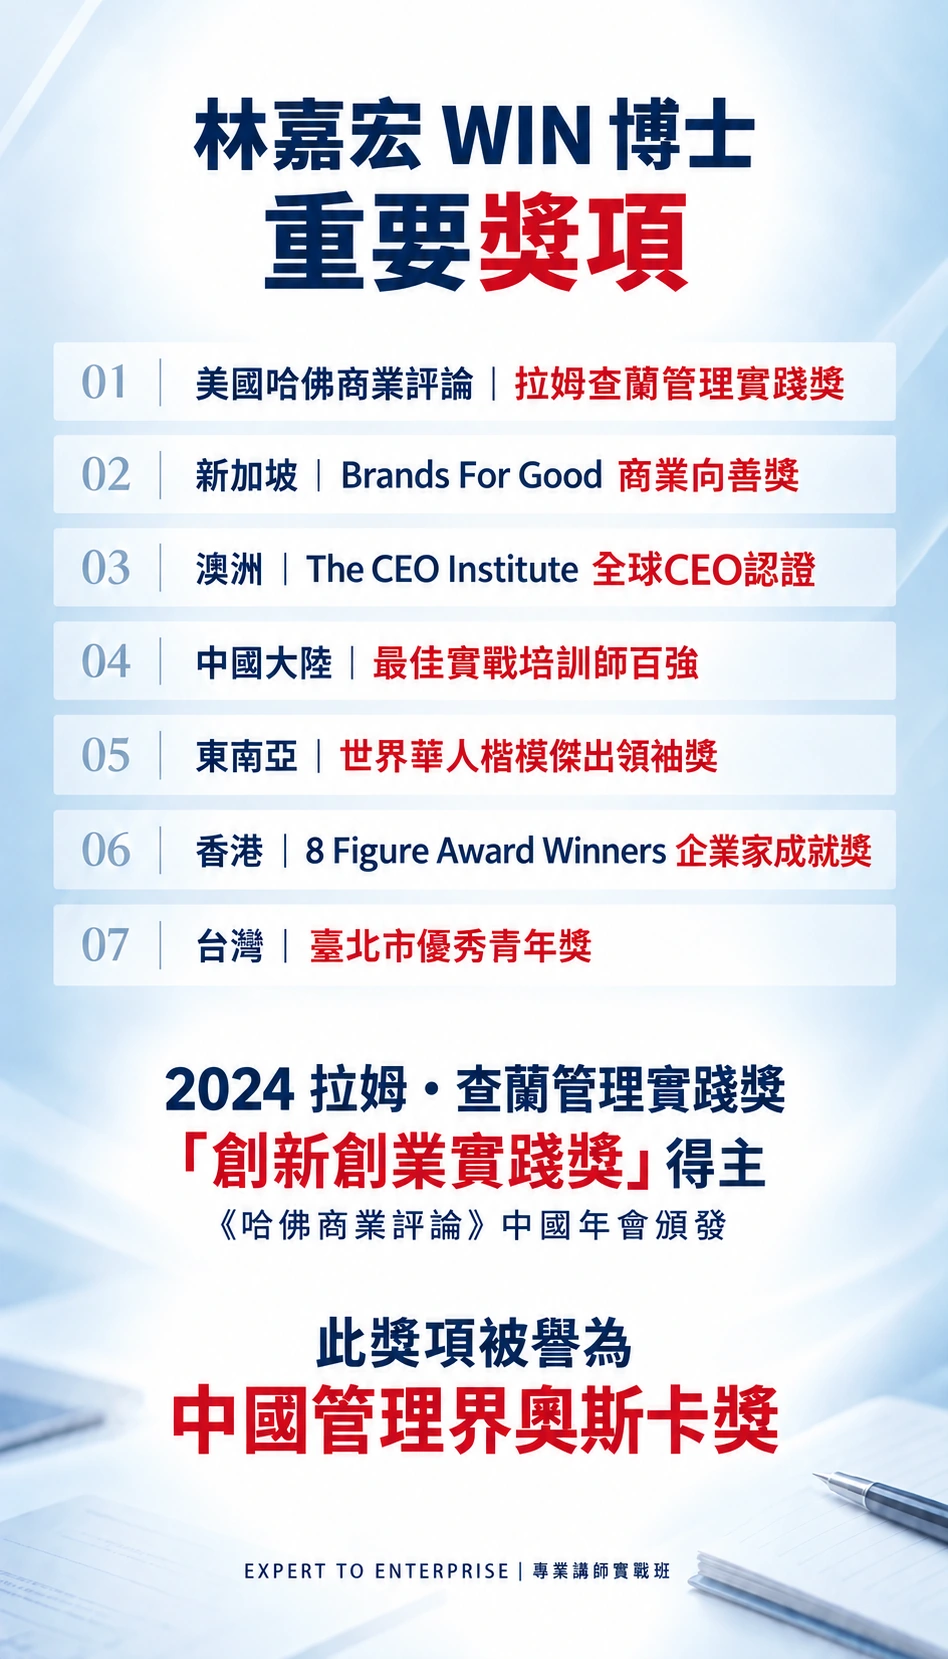
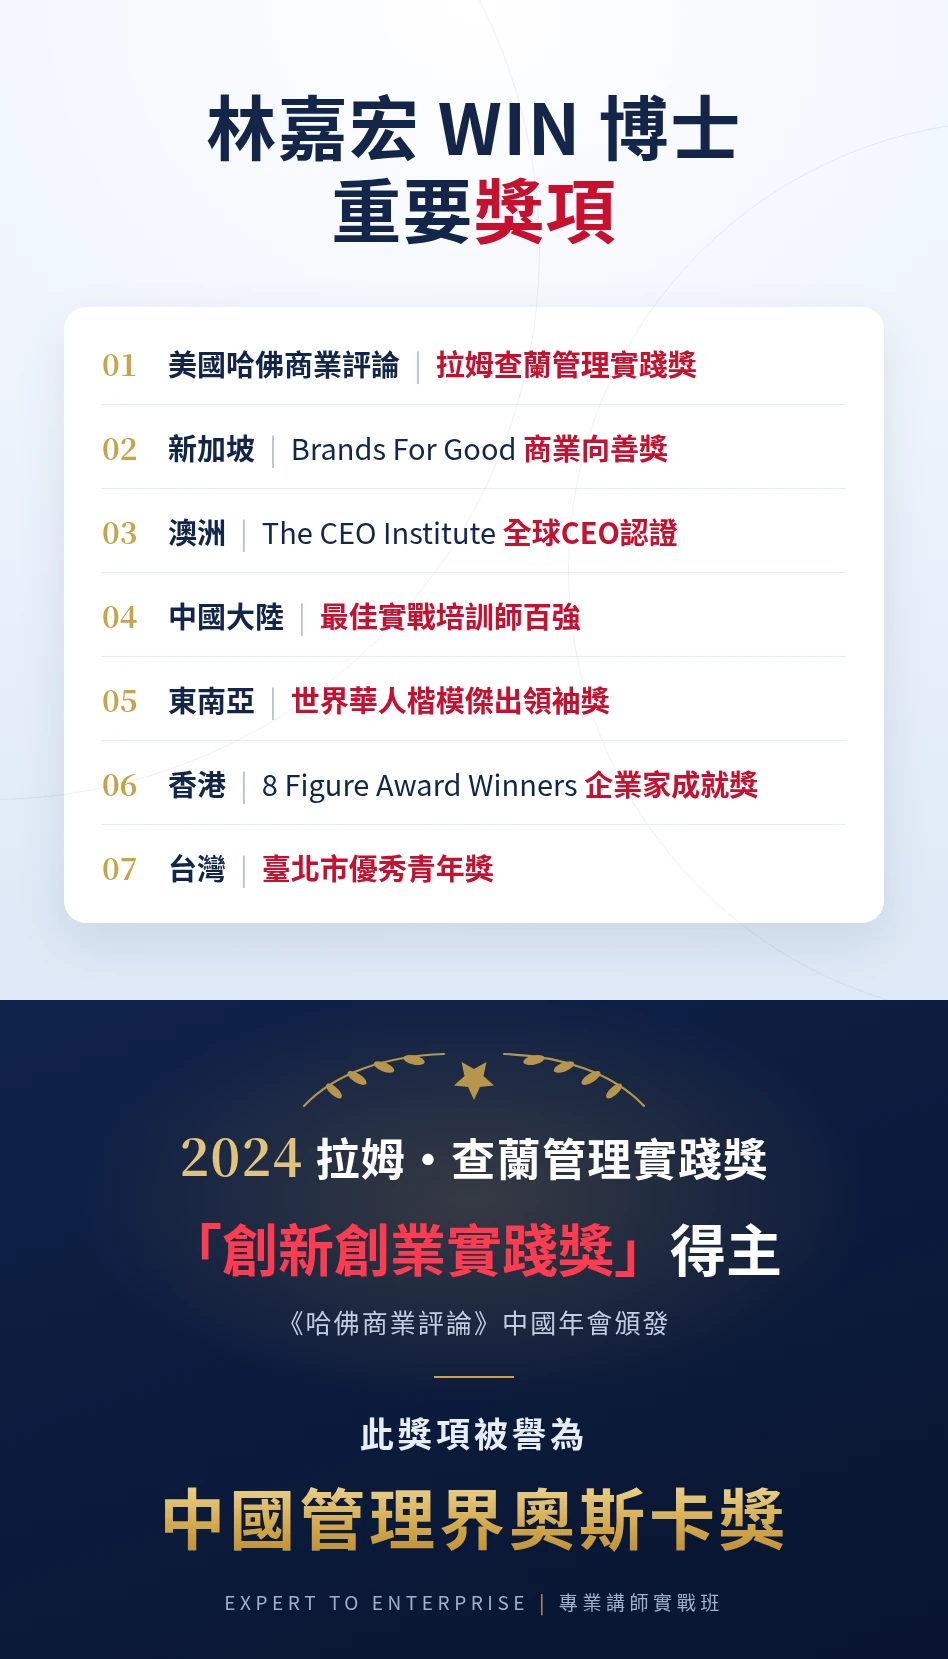
Replace course hero, award, footer art, and registration styles.
Swap the four files from fix1021 so the live course page picks up the new images and navy registration form.

diff --git a/vercel-win/app/globals.css b/vercel-win/app/globals.css
@@ -36,15 +36,15 @@ section.precourse-info{padding:80px 8%;text-align:center;background:radial-gradi
 .precourse-cta:focus-visible{outline:3px solid #071e41;outline-offset:5px}
 @media(max-width:600px){section.precourse-info{padding:52px 24px}.precourse-kicker{letter-spacing:1px}.precourse-info h2{letter-spacing:-.5px}.precourse-break{display:none}.precourse-lead{margin:22px auto 28px}.precourse-details{padding:4px 20px;border-radius:18px}.precourse-details>div{grid-template-columns:1fr 1.35fr;gap:12px;padding:22px 0}.precourse-cta{gap:12px;padding:17px 15px}.precourse-price{margin-top:24px}}
 
-/* Session-card enrollment form, matching the Dreamension registration structure. */
-.application.registration{padding:72px 7%;background:linear-gradient(180deg,#faf8f4,#f4f0f7)}
-.registration .form-shell{border:1px solid #dfd6c8;border-radius:32px;padding:48px;background:#fff;box-shadow:0 18px 60px #26314c0f}
-.registration .form-heading{text-align:center;margin-bottom:30px}.registration .form-heading h2{font-size:clamp(30px,4vw,44px);line-height:1.35;margin:12px 0}.registration .form-heading h2 span{color:#736386}.registration .form-heading>p:last-child{font-size:17px;color:#515568;line-height:1.7}
-.registration .course-summary{display:grid;gap:12px;margin:28px 0}.registration .course-summary p{display:flex;gap:6px;align-items:baseline;border:1px solid #eee7dd;border-radius:18px;padding:18px 20px;margin:0;background:#faf8f4;color:#343b50;line-height:1.7}.registration .course-summary strong{white-space:nowrap;color:#665270}
-.registration .schedule-notice{font-size:14px;line-height:1.8;padding:14px 16px;background:#fff8e9;border:1px solid #efdfba;border-radius:12px;color:#735927}
-.registration .session-fieldset{border:0;padding:0;margin:0 0 28px;min-width:0}.registration legend{font-size:16px;font-weight:700;margin-bottom:14px}.registration .required{color:#736386}.registration .session-grid{display:grid;grid-template-columns:1fr 1fr;gap:14px}.registration .session-option{position:relative}.registration .session-option input{position:absolute;width:1px;height:1px;opacity:0;margin:0}.registration .session-option label{display:flex;flex-direction:column;gap:7px;height:100%;padding:20px;border:1px solid #ded6cc;border-radius:18px;background:#faf8f4;cursor:pointer;margin:0;color:#343b50;font-weight:400}.registration .session-option strong{font-size:19px;color:#172342}.registration .session-option label>span{font-size:13px;color:#66697a}.registration .session-option .session-badge{color:#736386;font-weight:700;font-size:12px}.registration .session-option input:checked+label{border:2px solid #8a7b9b;padding:19px;background:#f0eaf5}.registration .session-option input:focus-visible+label{outline:3px solid #736386;outline-offset:3px}.registration .session-option label:hover{border-color:#8a7b9b}
-.registration .field-grid{display:grid;grid-template-columns:1fr 1fr;gap:0 20px}.registration .field-grid>label{display:block;color:#172342;font-weight:700;font-size:15px}.registration .field-grid input{margin-top:10px;border-color:#d5cddc;min-height:50px}.registration .consent{margin-top:4px;color:#515568;line-height:1.8}.registration .submit-button{background:#172342;min-height:58px}.registration .form-note{font-size:13px;line-height:1.8;color:#66697a;margin:16px 0 0;text-align:center}
-@media(max-width:600px){.application.registration{padding:40px 16px}.registration .form-shell{padding:28px 20px;border-radius:24px}.registration .form-heading h2{font-size:29px}.registration .course-summary p{padding:15px 16px;font-size:14px;border-radius:14px}.registration .session-grid,.registration .field-grid{grid-template-columns:1fr}.registration .session-option label{padding:18px}.registration .session-option input:checked+label{padding:17px}.registration .session-option strong{font-size:18px}.registration .submit-button{font-size:17px}}
+/* Session-card enrollment form, restyled to the page palette (navy / white / red, light-blue gradients). */
+.application.registration{padding:76px 7%;background:linear-gradient(135deg,#f0f9ff 0%,#e3f5ff 60%,#fafdff 100%);border-top:0}
+.registration .form-shell{border:1px solid #cfe7f4;border-radius:16px;padding:48px;background:#fff;box-shadow:0 10px 36px #224b7314;border-top:4px solid #c82e35}
+.registration .form-heading{text-align:center;margin-bottom:30px}.registration .form-heading .eyebrow{color:#c82e35;letter-spacing:3px}.registration .form-heading h2{font-size:clamp(30px,4vw,44px);line-height:1.35;margin:12px 0;color:#0b284a;font-weight:900;letter-spacing:-.5px}.registration .form-heading h2 span{color:#c82e35}.registration .form-heading>p:last-child{font-size:17px;color:#3e536b;line-height:1.7;font-weight:700}
+.registration .course-summary{display:grid;gap:12px;margin:28px 0}.registration .course-summary p{display:flex;gap:6px;align-items:baseline;border:1px solid #cfe7f4;border-left:4px solid #102d52;border-radius:10px;padding:18px 20px;margin:0;background:linear-gradient(135deg,#f7fcff,#eaf6fd);color:#102d52;line-height:1.7}.registration .course-summary strong{white-space:nowrap;color:#c82e35}
+.registration .schedule-notice{font-size:14px;line-height:1.8;padding:14px 16px;background:#f3f8fc;border:1px dashed #9fbdd6;border-radius:10px;color:#536d87}
+.registration .session-fieldset{border:0;padding:0;margin:0 0 28px;min-width:0}.registration legend{font-size:16px;font-weight:800;margin-bottom:14px;color:#102d52}.registration .required{color:#c82e35}.registration .session-grid{display:grid;grid-template-columns:1fr 1fr;gap:14px}.registration .session-option{position:relative}.registration .session-option input{position:absolute;width:1px;height:1px;opacity:0;margin:0}.registration .session-option label{display:flex;flex-direction:column;gap:7px;height:100%;padding:20px;border:1px solid #cfe0ee;border-radius:12px;background:#fff;cursor:pointer;margin:0;color:#3e536b;font-weight:400;box-shadow:0 4px 14px #224b730a;transition:border-color .15s,box-shadow .15s}.registration .session-option strong{font-size:19px;color:#0b284a}.registration .session-option label>span{font-size:13px;color:#536d87}.registration .session-option .session-badge{color:#c82e35;font-weight:700;font-size:12px;letter-spacing:.5px}.registration .session-option input:checked+label{border:2px solid #102d52;padding:19px;background:linear-gradient(135deg,#eef7fe,#dff0fb);box-shadow:0 6px 18px #102d5222}.registration .session-option input:focus-visible+label{outline:3px solid #285887;outline-offset:3px}.registration .session-option label:hover{border-color:#285887}
+.registration .field-grid{display:grid;grid-template-columns:1fr 1fr;gap:0 20px}.registration .field-grid>label{display:block;color:#102d52;font-weight:700;font-size:15px}.registration .field-grid input{margin-top:10px;border-color:#bccbdd;min-height:50px;border-radius:8px}.registration .consent{margin-top:4px;color:#3e536b;line-height:1.8}.registration .submit-button{background:#bb2b34;min-height:58px;border-radius:8px;box-shadow:0 7px 20px #881c241f}.registration .submit-button:hover{background:#a8242c}.registration .form-note{font-size:13px;line-height:1.8;color:#536d87;margin:16px 0 0;text-align:center}
+@media(max-width:600px){.application.registration{padding:40px 16px}.registration .form-shell{padding:28px 20px;border-radius:14px}.registration .form-heading h2{font-size:29px}.registration .course-summary p{padding:15px 16px;font-size:14px;border-radius:10px}.registration .session-grid,.registration .field-grid{grid-template-columns:1fr}.registration .session-option label{padding:18px}.registration .session-option input:checked+label{padding:17px}.registration .session-option strong{font-size:18px}.registration .submit-button{font-size:17px}}
 
 /* Editable label over the original embedded CTA; retain the source Hero image. */
 main>div:first-of-type>section{container-type:inline-size}
